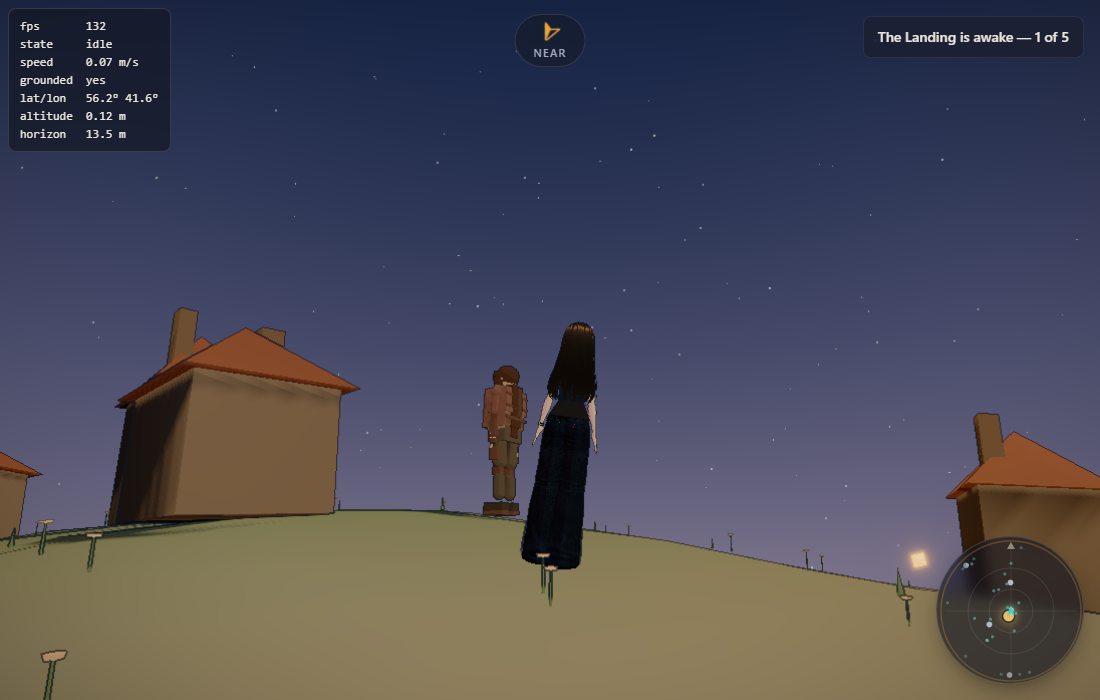
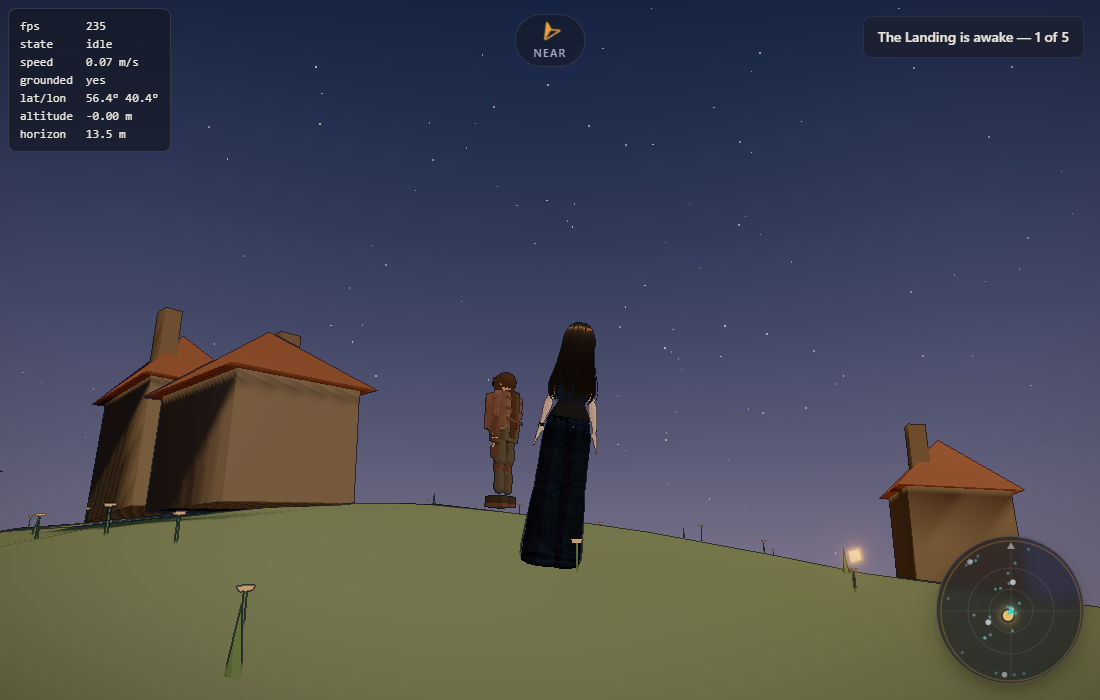
fix: the pelvis stuttered twice a stride, and the planet was a beach
**The tremble was the pelvis, and it was measurable.** Three passes had gone
at this by reasoning about it; this one instrumented it — sampling grounded,
speed, hip height and spine roll every animation frame across four seconds of
walking. Grounded never flipped, spine roll moved by 0.00004 rad, and the hip
jumped **four centimetres between two consecutive frames**. Not a bob: a
stutter, twice a stride.

`hipDrop` took the maximum over only the *planted* legs. At the instant a
foot left the ground its term dropped out of that maximum, and if it had been
the one setting the height, the pelvis fell through a step. Taking the max
over both legs unconditionally removes the discontinuity by construction —
max of two continuous functions is continuous — and still guarantees no foot
goes under the floor, because the longest leg is exactly the binding
constraint. The flight arc is now blended in on a half-sine that is zero at
both ends rather than switched to.

That got it to 2.5 cm. The rest was not a discontinuity but a very steep
derivative near contact, so the pelvis now *follows* the leg solution with
damping instead of tracking it exactly. A body has mass and lags its own
legs; 16/s keeps the real bob and loses the spike.

4.0 cm -> 1.3 cm worst case, 6.4 mm -> 4.4 mm at the 95th percentile.

**And the planet was a desert.** The sand band ran to 2.4 m above sea level
on a world whose entire terrain amplitude is 6 m, so sand claimed most of the
[…]

diff --git a/src/game/entities/gait.ts b/src/game/entities/gait.ts
@@ -327,39 +327,38 @@ export function hipDrop(
 ): number {
   const standing = foot.thighLength + foot.shinLength;
   const need = (p: number): number => ankleDrop(legPose(p, amp, stance), foot);
-
   const p = wrapPhase(phase);
-  const leftDown = p < stance;
-  const rightDown = wrapPhase(p + 0.5) < stance;
 
-  // Whatever else happens, no foot may end up under the floor. Taking the
-  // longest leg — swinging or not — is a ceiling on how far the pelvis may
-  // sink. It can only ever raise the body, so the worst case is a planted foot
-  // hovering a centimetre or two, which is invisible; the alternative is a foot
-  // disappearing into the terrain, which is not.
-  const noPenetration = standing - Math.max(need(p), need(p + 0.5));
+  // The pelvis rides on whichever leg is currently longest.
+  //
+  // **No branches, and that is the whole point.** This used to switch on which
+  // feet were planted and take the maximum over only those — which meant that
+  // at the instant a foot left the ground its term dropped out of the maximum,
+  // and if it had been the one setting the height, the pelvis fell through a
+  // step. Measured at four centimetres in a single frame, twice per stride: not
+  // a bob, a stutter, and it was what made her tremble as she walked.
+  //
+  // `max` of two continuous functions is continuous, so taking it over *both*
+  // legs unconditionally removes the discontinuity by construction. It also
+  // still guarantees no foot goes under the floor, because the longest leg is
+  // exactly the binding constraint.
+  const contact = standing - Math.max(need(p), need(p + 0.5));
 
-  if (leftDown || rightDown) {
-    let needed = 0;
-    if (leftDown) needed = Math.max(needed, need(p));
-    if (rightDown) needed = Math.max(needed, need(p + 0.5));
-    return Math.min(standing - needed, noPenetration);
-  }
+  // Flight, blended rather than switched.
+  //
+  // Below a 0.5 stance there is a window with no foot down, and there the
+  // pelvis should carry over a small arc rather than dive to meet a leg that is
+  // only passing through. The weight is a half-sine across that window: zero at
+  // both ends, so it joins the grounded solution smoothly instead of stepping
+  // into it. Raising the pelvis can never push a foot through the floor, so the
+  // guarantee above survives.
+  const gap = 0.5 - stance;
+  if (gap <= 1e-4) return contact;
 
-  // Flight. Nothing is touching the ground, so nothing on the ground can
-  // dictate where the pelvis goes — and letting the longest leg dictate it
-  // anyway is exactly the bug this replaced: the body dove downwards to meet a
-  // leg that was only passing through, and the foot skated forwards at 7 m/s
-  // while grazing the floor. Carry the pelvis from the last toe-off to the next
-  // contact instead, over a small ballistic arc.
-  const half = p % 0.5;
-  const u = clamp01((half - stance) / (0.5 - stance));
-  const fromToeOff = standing - need(stance);
-  const toContact = standing - need(0);
+  const u = clamp01(((p % 0.5) - stance) / gap);
+  const flight = Math.sin(Math.PI * u);
   const arc = 0.1 * (1 - stance / 0.5) * standing;
-  const ballistic = fromToeOff + (toContact - fromToeOff) * u - arc * 4 * u * (1 - u);
-
-  return Math.min(ballistic, noPenetration);
+  return contact - arc * flight;
 }
 
 /** Lateral weight shift toward the stance foot, -1..1 (positive = left). */

diff --git a/src/game/entities/VrmCharacter.ts b/src/game/entities/VrmCharacter.ts
@@ -169,6 +169,10 @@ export class VrmCharacter implements LoadedCharacter {
   private effort = 0;
   /** Smoothed airborne weight, so take-off and landing blend rather than cut. */
   private airborne = 0;
+  /** Smoothed pelvis drop. A body has mass; see poseSpine. */
+  private hipSink = 0;
+  /** Last frame delta, for smoothers that run outside update(). */
+  private lastDt = 1 / 60;
   /** Smoothed bank angle for turning. */
   private bank = 0;
   /** Hip-to-ankle distance, measured from the rig. Sets the stride reach. */
@@ -681,9 +685,18 @@ export class VrmCharacter implements LoadedCharacter {
     // Put the pelvis where the legs need it, rather than on a decorative sine.
     // This is what makes the feet actually reach the floor at full stride, and
     // the rise and fall it produces is the real one — see `hipDrop`.
+    // Follow the leg geometry, but not instantaneously.
+    //
+    // The solution is continuous and still very *steep* around contact: at a
+    // brisk walk the pelvis covers its whole vertical range in a few frames,
+    // which measured as a 2.5 cm move between two consecutive frames and reads
+    // as a jolt rather than a bob. A body has mass and lags its own legs, so a
+    // damped follow is both smoother and more truthful. 16/s keeps the real
+    // bob and loses the spike.
     const drop = hipDrop(this.phase, this.legAmp, this.stance, this.foot);
+    this.hipSink = damp(this.hipSink, drop, 16, this.lastDt);
     hips.position.y =
-      this.hipRestY - drop * (1 - this.airborne) + c.bob * Math.max(0, 1 - gaitWeight);
+      this.hipRestY - this.hipSink * (1 - this.airborne) + c.bob * Math.max(0, 1 - gaitWeight);
     // Lateral weight shift toward the standing leg.
     hips.position.x = this.hipRestX + shift * 0.026 * gaitWeight;
   }

diff --git a/src/game/world/PlanetTerrain.ts b/src/game/world/PlanetTerrain.ts
@@ -276,17 +276,24 @@ export class PlanetTerrain {
       // Grass first, varied between a shaded low green and a sunlit one.
       colour.copy(GRASS_LOW).lerp(GRASS_HIGH, clamp01(0.5 + drift * 0.75));
 
-      // Sand hugs the waterline.
-      const sand = 1 - smoothstep(SEA_LEVEL_RADIUS + 0.3, SEA_LEVEL_RADIUS + 2.4, height);
+      // Sand hugs the waterline — and only the waterline.
+      //
+      // This band ran to 2.4 m above sea level on a planet whose entire terrain
+      // amplitude is 6 m, so sand claimed most of the habitable surface and the
+      // world read as desert. A beach is the strip you can throw a stone across
+      // from the water; everything past it is grass.
+      const sand = 1 - smoothstep(SEA_LEVEL_RADIUS + 0.02, SEA_LEVEL_RADIUS + 0.38, height);
       if (sand > 0) colour.lerp(PALETTE.sand, sand);
 
-      // Stone comes from altitude *or* steepness, whichever is stronger.
+      // Stone comes from altitude *or* steepness, whichever is stronger. Kept
+      // to genuine peaks for the same reason: rock everywhere is another way of
+      // having no grass.
       const byAltitude = smoothstep(
-        PLANET_RADIUS + TERRAIN_AMPLITUDE * 0.4,
-        PLANET_RADIUS + TERRAIN_AMPLITUDE * 0.72,
+        PLANET_RADIUS + TERRAIN_AMPLITUDE * 0.62,
+        PLANET_RADIUS + TERRAIN_AMPLITUDE * 0.88,
         height,
       );
-      const bySlope = smoothstep(0.05, 0.19, slope);
+      const bySlope = smoothstep(0.12, 0.30, slope);
       const stone = Math.max(byAltitude, bySlope);
       if (stone > 0) colour.lerp(PALETTE.stone, stone * 0.92);
 

diff --git a/src/game/scenes/PlanetScene.ts b/src/game/scenes/PlanetScene.ts
@@ -99,6 +99,12 @@ export class PlanetScene implements IScene {
   delivery!: DeliverySystem;
 
   private character: LoadedCharacter | null = null;
+
+  /** The loaded character, for tooling and tests. */
+  get playerCharacter(): LoadedCharacter | null {
+    return this.character;
+  }
+
   private paused = false;
   private playerLocked = false;
 
